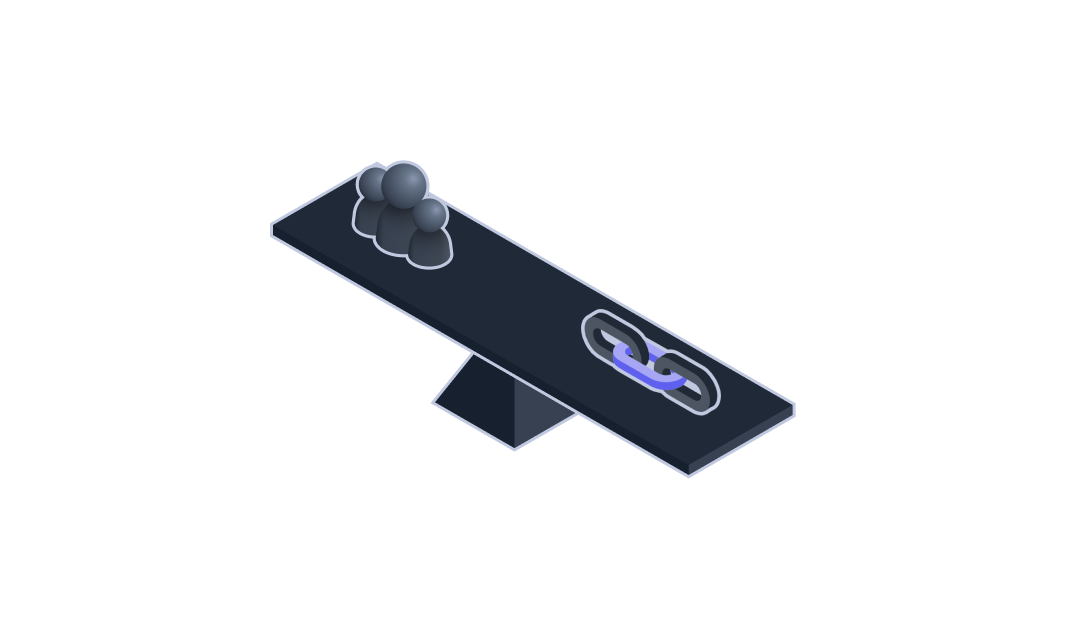
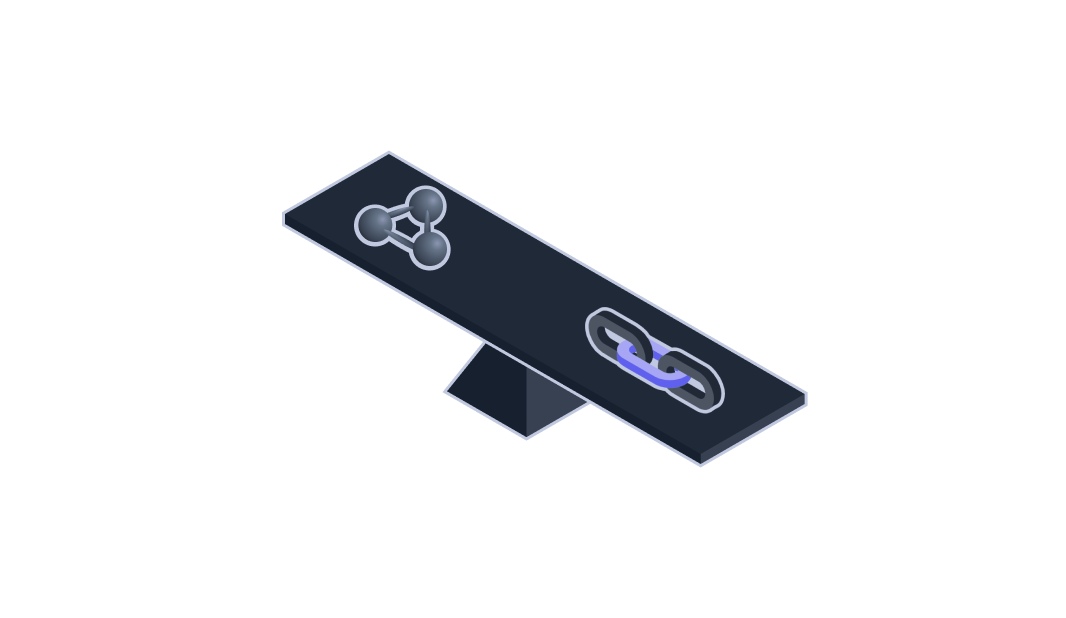
wip: add images

Changed region(s): [[0.2477, 0.246, 0.7739, 0.7686]]

diff --git a/www/layouts/partials/main/blog-meta.html b/www/layouts/partials/main/blog-meta.html
@@ -1,1 +1,1 @@
-<p><small>Posted {{ .PublishDate.Format "January 2, 2006" }} by {{ if .Params.contributors -}}{{ range $index, $contributor := .Params.contributors }}{{ if gt $index 0 }} and {{ end }}<a class="stretched-link position-relative" href="{{ "/contributors/" | relURL }}{{ . | urlize }}/">{{ . }}</a>{{ end -}}{{ end -}}&nbsp;&hyphen;&nbsp;<strong>{{ .ReadingTime -}}&nbsp;min read</strong></small><p>
+<p><!-- <small>Posted {{ .PublishDate.Format "January 2, 2006" }} --> Authored by {{ if .Params.contributors -}}{{ range $index, $contributor := .Params.contributors }}{{ if gt $index 0 }} and {{ end }}<a class="stretched-link position-relative" href="{{ "/contributors/" | relURL }}{{ . | urlize }}/">{{ . }}</a>{{ end -}}{{ end -}}&nbsp;&hyphen;&nbsp;<strong>{{ .ReadingTime -}}&nbsp;min read</strong></small><p>

diff --git a/www/content/en/blog/01-hello-world/index.md b/www/content/en/blog/01-hello-world/index.md
@@ -46,7 +46,7 @@ However, similar to the story of [The Walrus and the Carpenter](https://en.wikip
 
 ### The Right Protocol for the Right Problem
 
-<!--<img src="/images/right_protocol.png" width="{{ .Width }}" height="{{ .Height }}">-->
+<img src="/images/right_protocol.png" width="{{ .Width }}" height="{{ .Height }}">
 
 The question we're answering at Kubelt is: how can we completely decentralize the middle tier? How can we make developer experience 10x better by giving people the familiarity of a centralized architecture without all of the associated complexity, problems, and costs? 
 
@@ -56,7 +56,7 @@ But blockchains are ledgers, a data structure typically more suited to backend d
 
 ### Decentralizing the Middle Tier
 
-<!--<img src="/images/content_is_everything.png" width="{{ .Width }}" height="{{ .Height }}">-->
+<img src="/images/decentralize_middle.png" width="{{ .Width }}" height="{{ .Height }}">
 
 To truly decentralize an application you need to decentralize APIs. A blockchain generally can't run on the client, which means a centralized _(HTTP gateway is required)_; but a **peer-to-peer content delivery network** like [IPFS](ipns://ipfs.io/) _can_ run on clients.
 
@@ -67,8 +67,6 @@ These same content addresses can also pack and fully encrypt signatures, schemas
 This isn't to be underestimated. When the entire application to pushed to the client, developers can begin to think about novel applications over a fully generalized, **local-first**, distributed API surface.
 
 ### Wallet(s) are the Key(s)
-
-<!--<img src="/images/user_application.png" width="{{ .Width }}" height="{{ .Height }}">-->
 
 A **local-first** application, where problems are **user sized**, and content and compute are co-located, simplifies the developer experience while adding:
 
@@ -86,6 +84,8 @@ All we need to do now is put it all together!
 
 ### Enter Kubelt Cores
 
+<img src="/images/enter_kubelt.png" width="{{ .Width }}" height="{{ .Height }}">
+
 A Kubelt Core bundles decentralized protocols and other capabilties into a **fully generalized and configurable backend** that bootstraps your local-first applications.
 
 Your wallet is the entry point into the network. When you unlock your private core it extends your wallet into a local-first application. With your private core you can send and receive encrypted messages, store content, create local-first applications, and create more cores.
@@ -93,8 +93,6 @@ Your wallet is the entry point into the network. When you unlock your private co
 You don't need to install any new software or make new identities, you just log in with your existing wallet and claim your core.
 
 ### What's Next?
-
-<img src="/images/enter_kubelt.png" width="{{ .Width }}" height="{{ .Height }}">
 
 Kubelt is building a better, more user-centric web. If you like the sound of that and want to learn more, follow us on **[Twitter](https://twitter.com/kubelt)** and join us on **[Discord](https://discord.gg/UgwAsJf6C5)**.
 
